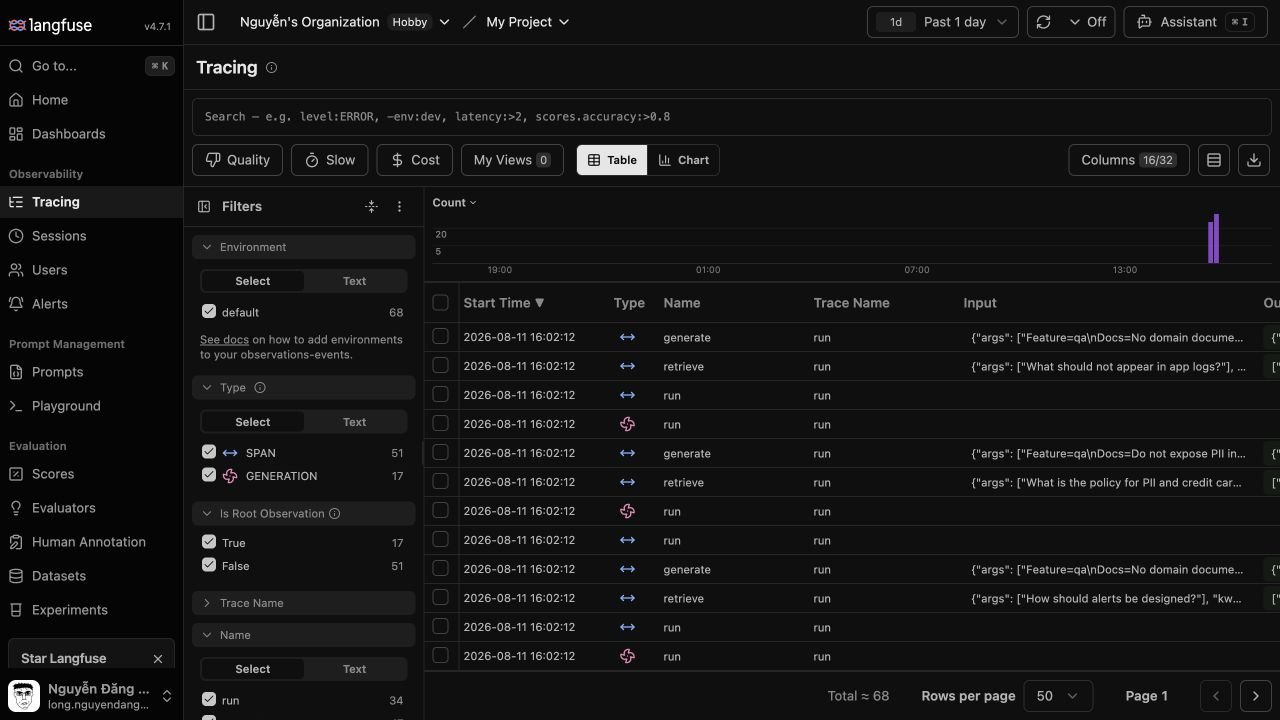
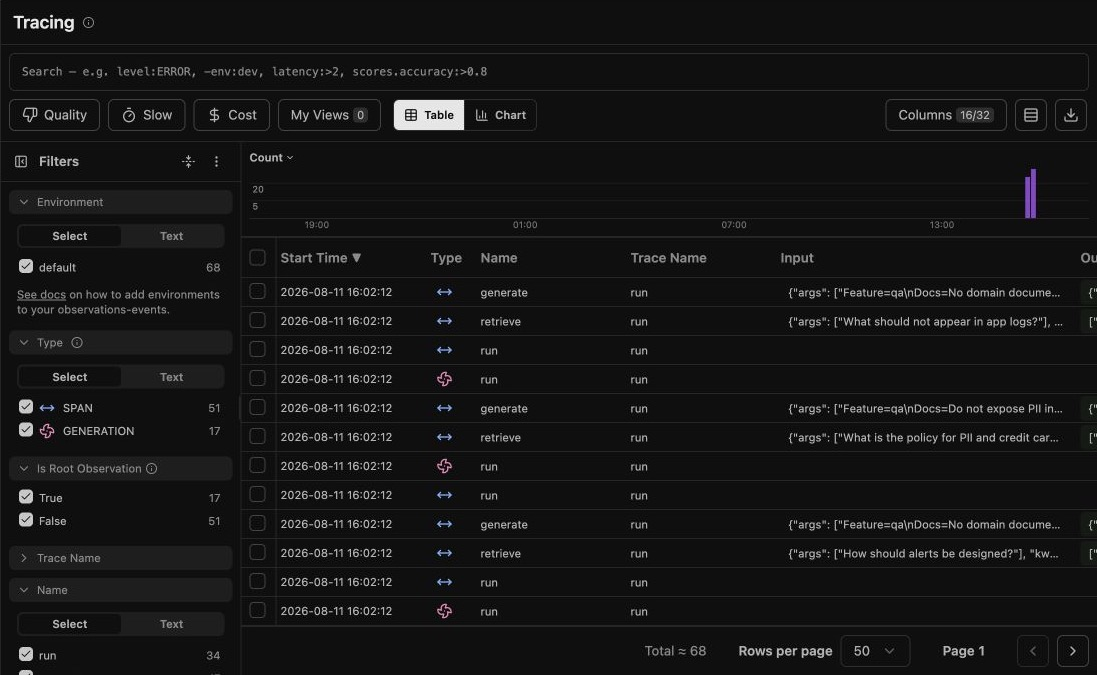
docs: add redacted Langfuse rollout evidence

diff --git a/submission/evidence/prompt-rollout-evidence.md b/submission/evidence/prompt-rollout-evidence.md
@@ -1,0 +1,12 @@
+# Prompt label rollout and rollback evidence
+
+Prompt `day13-chat` has two tested versions.
+
+| Step | Production lookup result | Evidence |
+|---|---|---|
+| Baseline | v1 with labels `baseline`, `production` | Trace `79648482039602a16d3b7c1e5bf5dc85` has metadata `day13-chat`, `baseline`, v1. |
+| Candidate | v2 with label `candidate` | Trace `4083645850d1f178409cca4b9ec6d301` has metadata `day13-chat`, `candidate`, v2. |
+| Shift | `production_after_shift=v2` | Langfuse API lookup after assigning `production` to v2. |
+| Rollback | `production_after_rollback=v1` | Langfuse API lookup after restoring `production` to v1. |
+
+![Prompt v1 production restored after rollback](langfuse-production-v1-rollback.jpg)

diff --git a/submission/evidence/trace-evidence.md b/submission/evidence/trace-evidence.md
@@ -10,3 +10,9 @@ Project: [My Project](https://jp.cloud.langfuse.com/project/cmsoez6r7000wad0fv4f
 
 The challenge trace contains the `retrieve` span at 2.505 seconds and a generation at 2.662 seconds.
 This connects the P95 latency symptom to the retrieval root cause without recording raw user identifiers.
+
+## Screenshots
+
+- [Trace inventory with 17 root traces and 68 observations](langfuse-traces.jpg)
+- [Baseline trace v1 with the retrieve and generate span tree](langfuse-baseline-trace.jpg)
+- [Candidate trace v2 with the retrieve and generate span tree](langfuse-candidate-trace.jpg)
